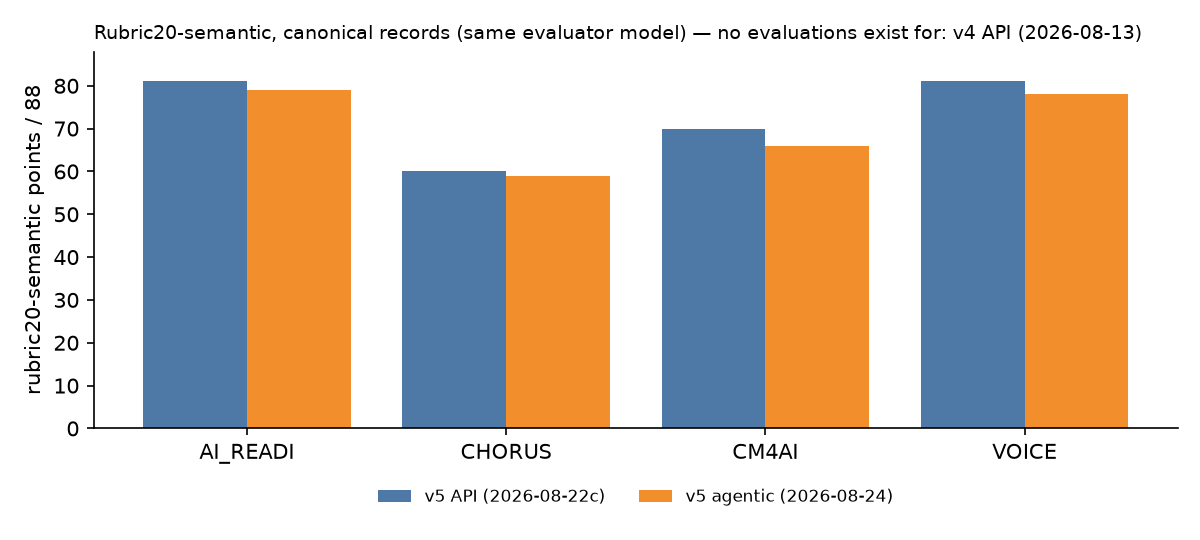
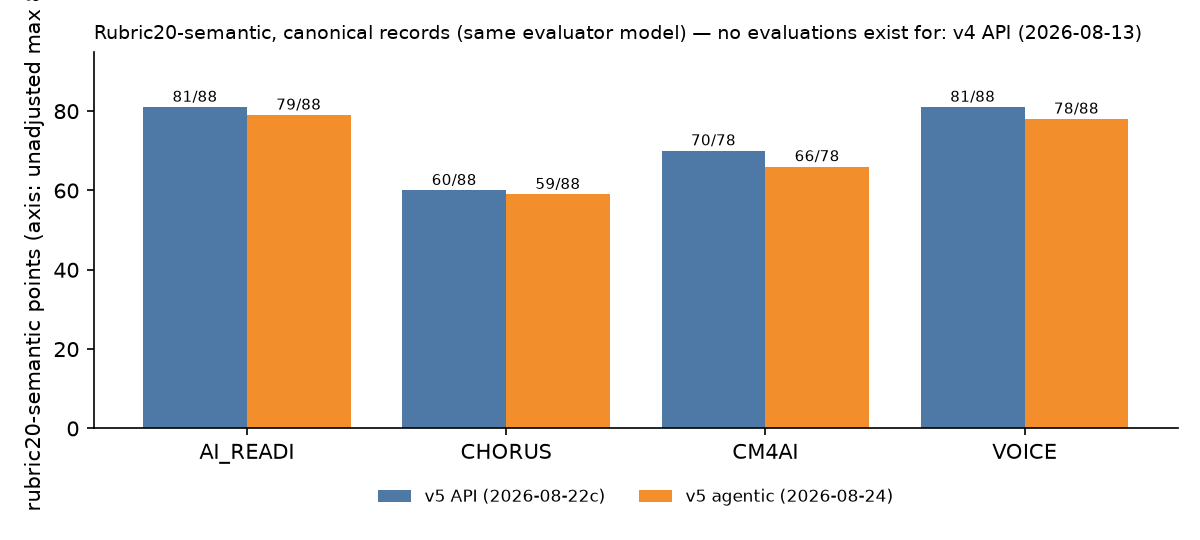
Absorb the #696 review: the evaluators re-judge, the figure stops implying a percentage
F1: the CHORUS API rep3 evaluator had excluded Q14 on Q14's own fields — the
circular gate the agent's rule forbids — while the agentic evaluator applied
the rule; the 83-vs-88 denominator gap was that artefact. The API evaluator
re-judged under the rule: Q14 applicable, scored 0; 60/88 (68.2%), NA=0.
CHORUS now reads 60/88 vs 59/88 — the closest pair in either rubric. The
rubric's own Q14 trigger contradicts its anti-circular rule; filed as #697.

F2: the AI_READI agentic evaluator replaced its two 4.5s with integers;
total unchanged at 79/88. Scores are not edited by hand: both files were
rewritten by the evaluator that owns them, with fresh stamps.

F3: rubric figures write each bar's points/adjusted-max on the bar and
label the axis as the unadjusted maximum, so CM4AI's 70/78 is not read as
70/88. F4: the three files serialised minutes after stamping say so in
their basis. F6: rubric text names both rubric directories and states that
N/A exclusions are evaluator judgements. F5 → #667.

diff --git a/scripts/arm_comparison.py b/scripts/arm_comparison.py
@@ -26,9 +26,11 @@ Bases, stated once and printed into the output:
   instrument change. **GC label variants are anachronistic for the v4 and
   22c arms**: the manifest `naming:` declaration they are counted against
   was decided 2026-08-22, after the v4 arm ran and the day the 22c arm did.
-- **rubric scores** come from `data/evaluation_llm/rubric10_semantic/
+- **rubric scores** come from `data/evaluation_llm/rubric{10,20}_semantic/
   label_aware/`, matched by label, and only exist for canonical (or
-  would-be canonical) records.
+  would-be canonical) records. Applicability (N/A) is itself evaluator
+  output, so adjusted maxima can differ between evaluations of comparable
+  records; points and adjusted maximum are both shown.
 - **spend is deliberately absent**: `api_usage` (billed input/output) and
   `run_observed` (cache-inclusive runner totals) are different quantities and
   must never sit in one column (#400).
@@ -218,8 +220,9 @@ def write_markdown(data, scores) -> None:
              "a record was last backfilled. Stored `form` blocks are not read (today "
              "they agree with the recompute on all 36 records). GC variants are counted "
              "against a naming declaration decided 2026-08-22 — anachronistic for v4.",
-             "- rubric scores: `data/evaluation_llm/rubric10_semantic/label_aware/`, same "
-             "evaluator for every arm shown.",
+             "- rubric scores: `data/evaluation_llm/rubric{10,20}_semantic/label_aware/`, "
+             "same evaluator for every arm shown; N/A exclusions are evaluator "
+             "judgements, so adjusted maxima can differ between comparable records.",
              "- spend: absent by design — `api_usage` and `run_observed` are different "
              "quantities (#400).", "",
              "Arms: " + "; ".join(f"**{d}** — `{pfx}_rep{{1,2,3}}`, {rt}"
@@ -329,10 +332,20 @@ def _rubric_figure(rubric, scores, colors) -> None:
     width = 0.8 / max(1, len(arm_keys))
     for i, key in enumerate(arm_keys):
         vals = [(scores[key][p][0]["total"] if scores[key][p] else 0) for p in PROJECTS]
-        ax.bar([j + i * width for j in range(len(PROJECTS))], vals, width=width,
-               color=colors[key], label=dict((k, d) for k, d, *_ in ARMS)[key])
+        xs = [j + i * width for j in range(len(PROJECTS))]
+        ax.bar(xs, vals, width=width, color=colors[key],
+               label=dict((k, d) for k, d, *_ in ARMS)[key])
+        # Points are drawn against the unadjusted maximum; where an evaluation
+        # excluded N/A questions its adjusted maximum is written on the bar so
+        # the visual height is not read as a percentage (#696 review).
+        for x, p, v in zip(xs, PROJECTS, vals):
+            if scores[key][p]:
+                s0 = scores[key][p][0]
+                adj = s0.get("adjusted_max") or s0.get("max")
+                ax.text(x, v + 0.5, f"{v}/{adj}", ha="center", va="bottom", fontsize=7)
     ax.set_xticks([j + width * (len(arm_keys) - 1) / 2 for j in range(len(PROJECTS))])
-    ax.set_xticklabels(PROJECTS); ax.set_ylim(0, RUBRIC_MAX[rubric]); ax.set_ylabel(f"{rubric}-semantic points / {RUBRIC_MAX[rubric]}")
+    ax.set_xticklabels(PROJECTS); ax.set_ylim(0, RUBRIC_MAX[rubric] * 1.08)
+    ax.set_ylabel(f"{rubric}-semantic points (axis: unadjusted max {RUBRIC_MAX[rubric]})")
     ax.spines[["top", "right"]].set_visible(False)
     ax.legend(frameon=False, fontsize=8, loc="upper center", bbox_to_anchor=(0.5, -0.12), ncol=len(arm_keys))
     ax.set_title(f"{rubric.capitalize()}-semantic, canonical records (same evaluator model)"

diff --git a/notes/arm_comparison.md b/notes/arm_comparison.md
@@ -6,7 +6,7 @@ Generated by `scripts/arm_comparison.py` from the provenance records under `data
 
 - pair errors, report findings, grounding: each record's own blocks. Pair is a deterministic artifact check; grounding is against the record's declared bundle, whose md5 still matches disk for every arm shown (`recorded_by` says whether the run or backfill-checks wrote it).
 - British spellings, undeclared prefixes, organisational fragments, GC label variants: **recomputed live** from the artifacts under the current instrument (`grounding.form_facts`), so the basis does not depend on when a record was last backfilled. Stored `form` blocks are not read (today they agree with the recompute on all 36 records). GC variants are counted against a naming declaration decided 2026-08-22 — anachronistic for v4.
-- rubric scores: `data/evaluation_llm/rubric10_semantic/label_aware/`, same evaluator for every arm shown.
+- rubric scores: `data/evaluation_llm/rubric{10,20}_semantic/label_aware/`, same evaluator for every arm shown; N/A exclusions are evaluator judgements, so adjusted maxima can differ between comparable records.
 - spend: absent by design — `api_usage` and `run_observed` are different quantities (#400).
 
 Arms: **v4 API (2026-08-13)** — `2026-08-13_claude-opus-5-api-generic-v4_rep{1,2,3}`, Claude API via CBORG (shown as per-project worst; max for reported-only metrics); **v5 API (2026-08-22c)** — `2026-08-22c_claude-opus-5-api-generic-v5_rep{1,2,3}`, Claude API via CBORG; **v5 agentic (2026-08-24)** — `2026-08-24_claude-opus-5-claudecode-generic-v5_rep{1,2,3}`, Claude Code
@@ -75,7 +75,7 @@ Arms: **v4 API (2026-08-13)** — `2026-08-13_claude-opus-5-api-generic-v4_rep{1
 | project | v4 API (2026-08-13) | v5 API (2026-08-22c) | v5 agentic (2026-08-24) |
 |---|---|---|---|
 | AI_READI | – | 81/88 (92.0%, rep2) | 79/88 (89.8%, rep2) |
-| CHORUS | – | 60/83 (72.3%, rep3) | 59/88 (67.0%, rep1) |
+| CHORUS | – | 60/88 (68.2%, rep3) | 59/88 (67.0%, rep1) |
 | CM4AI | – | 70/78 (89.7%, rep1) | 66/78 (84.6%, rep2) |
 | VOICE | – | 81/88 (92.0%, rep2) | 78/88 (88.6%, rep1) |
 
